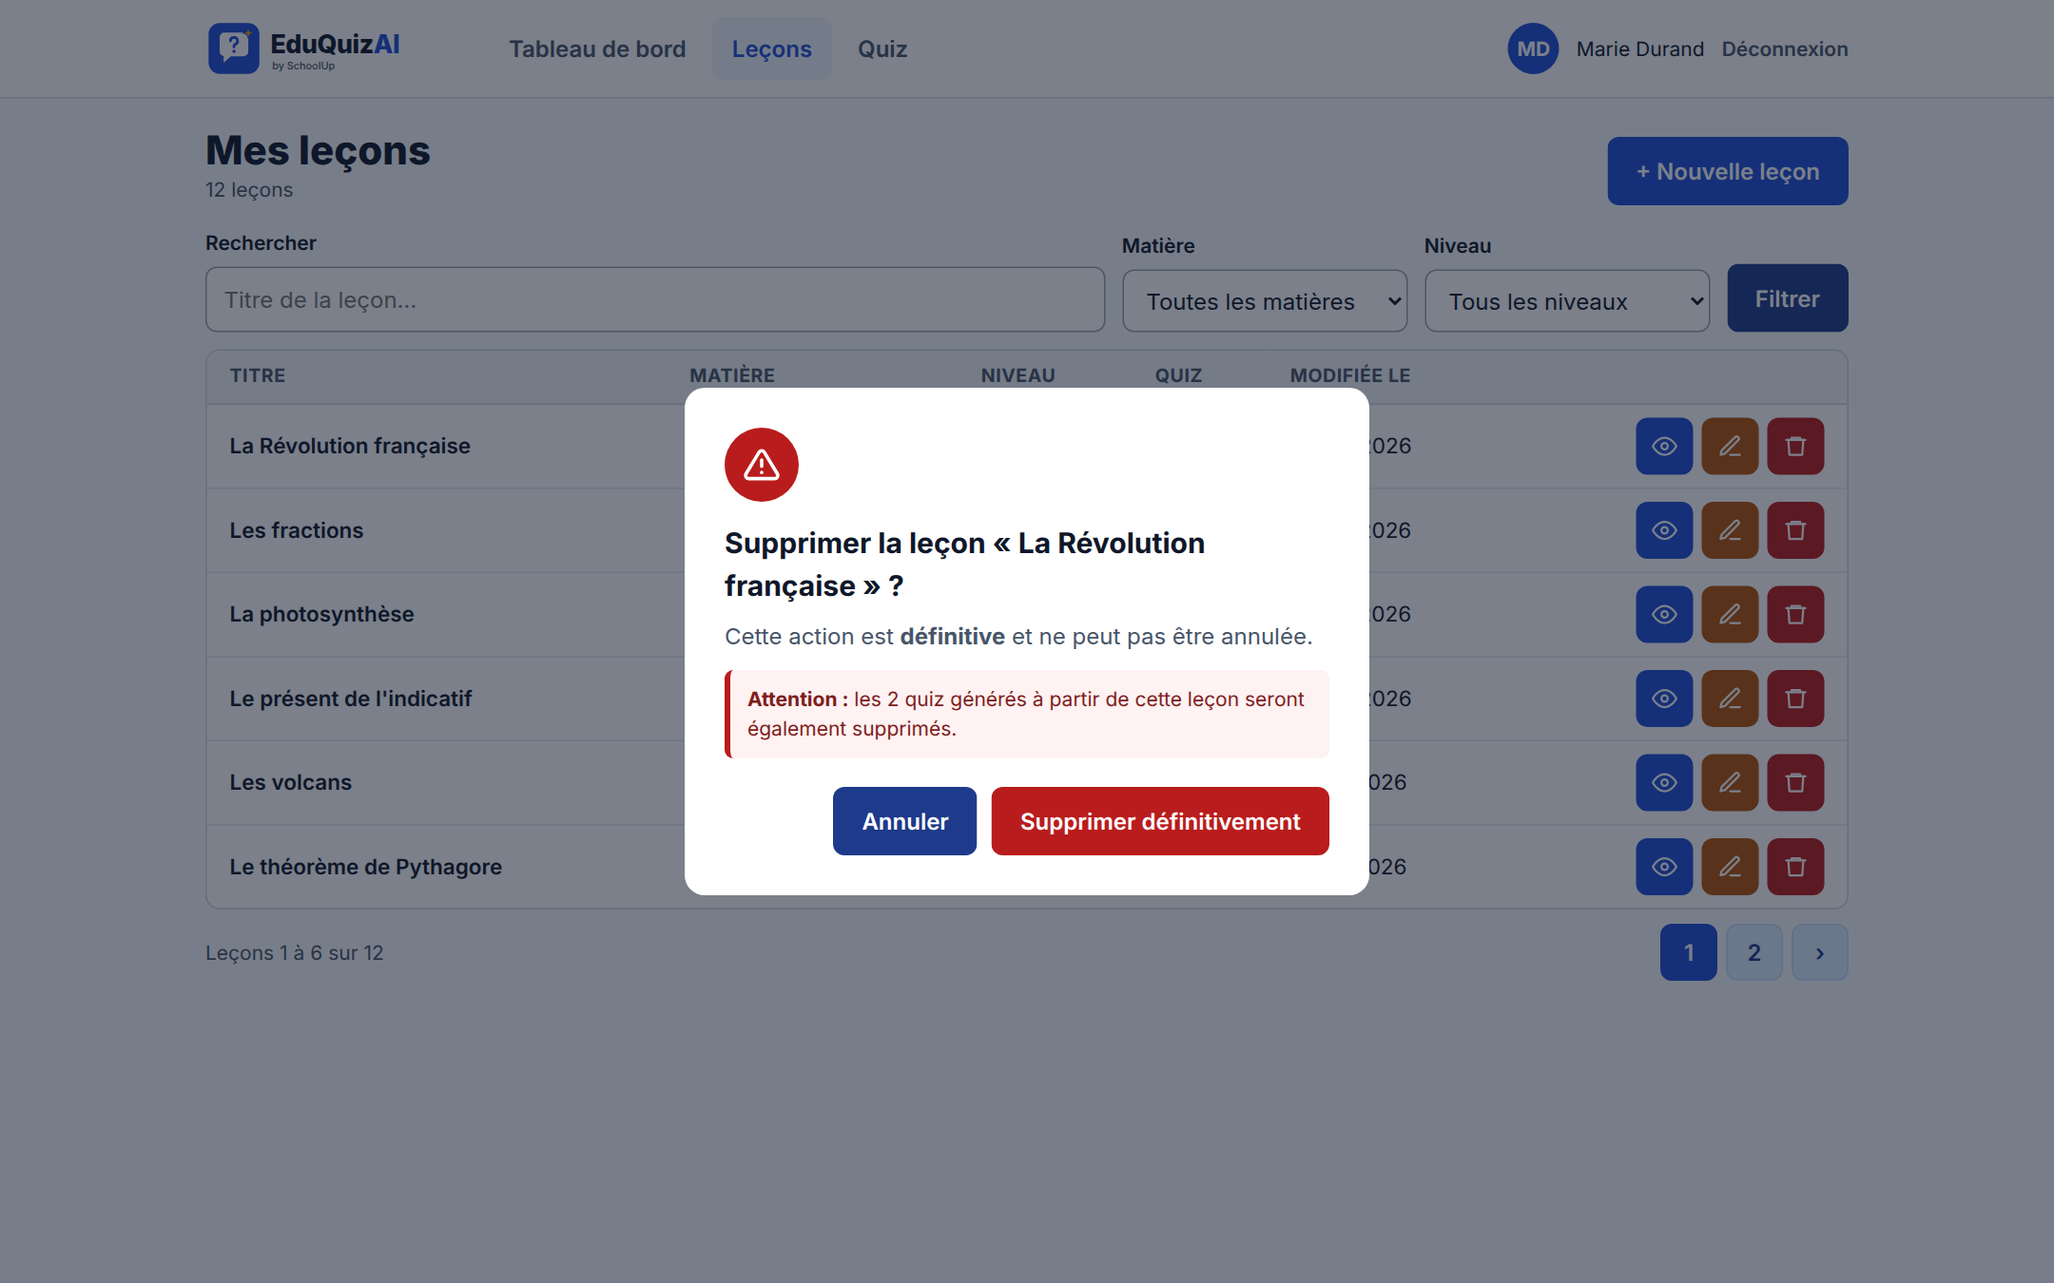
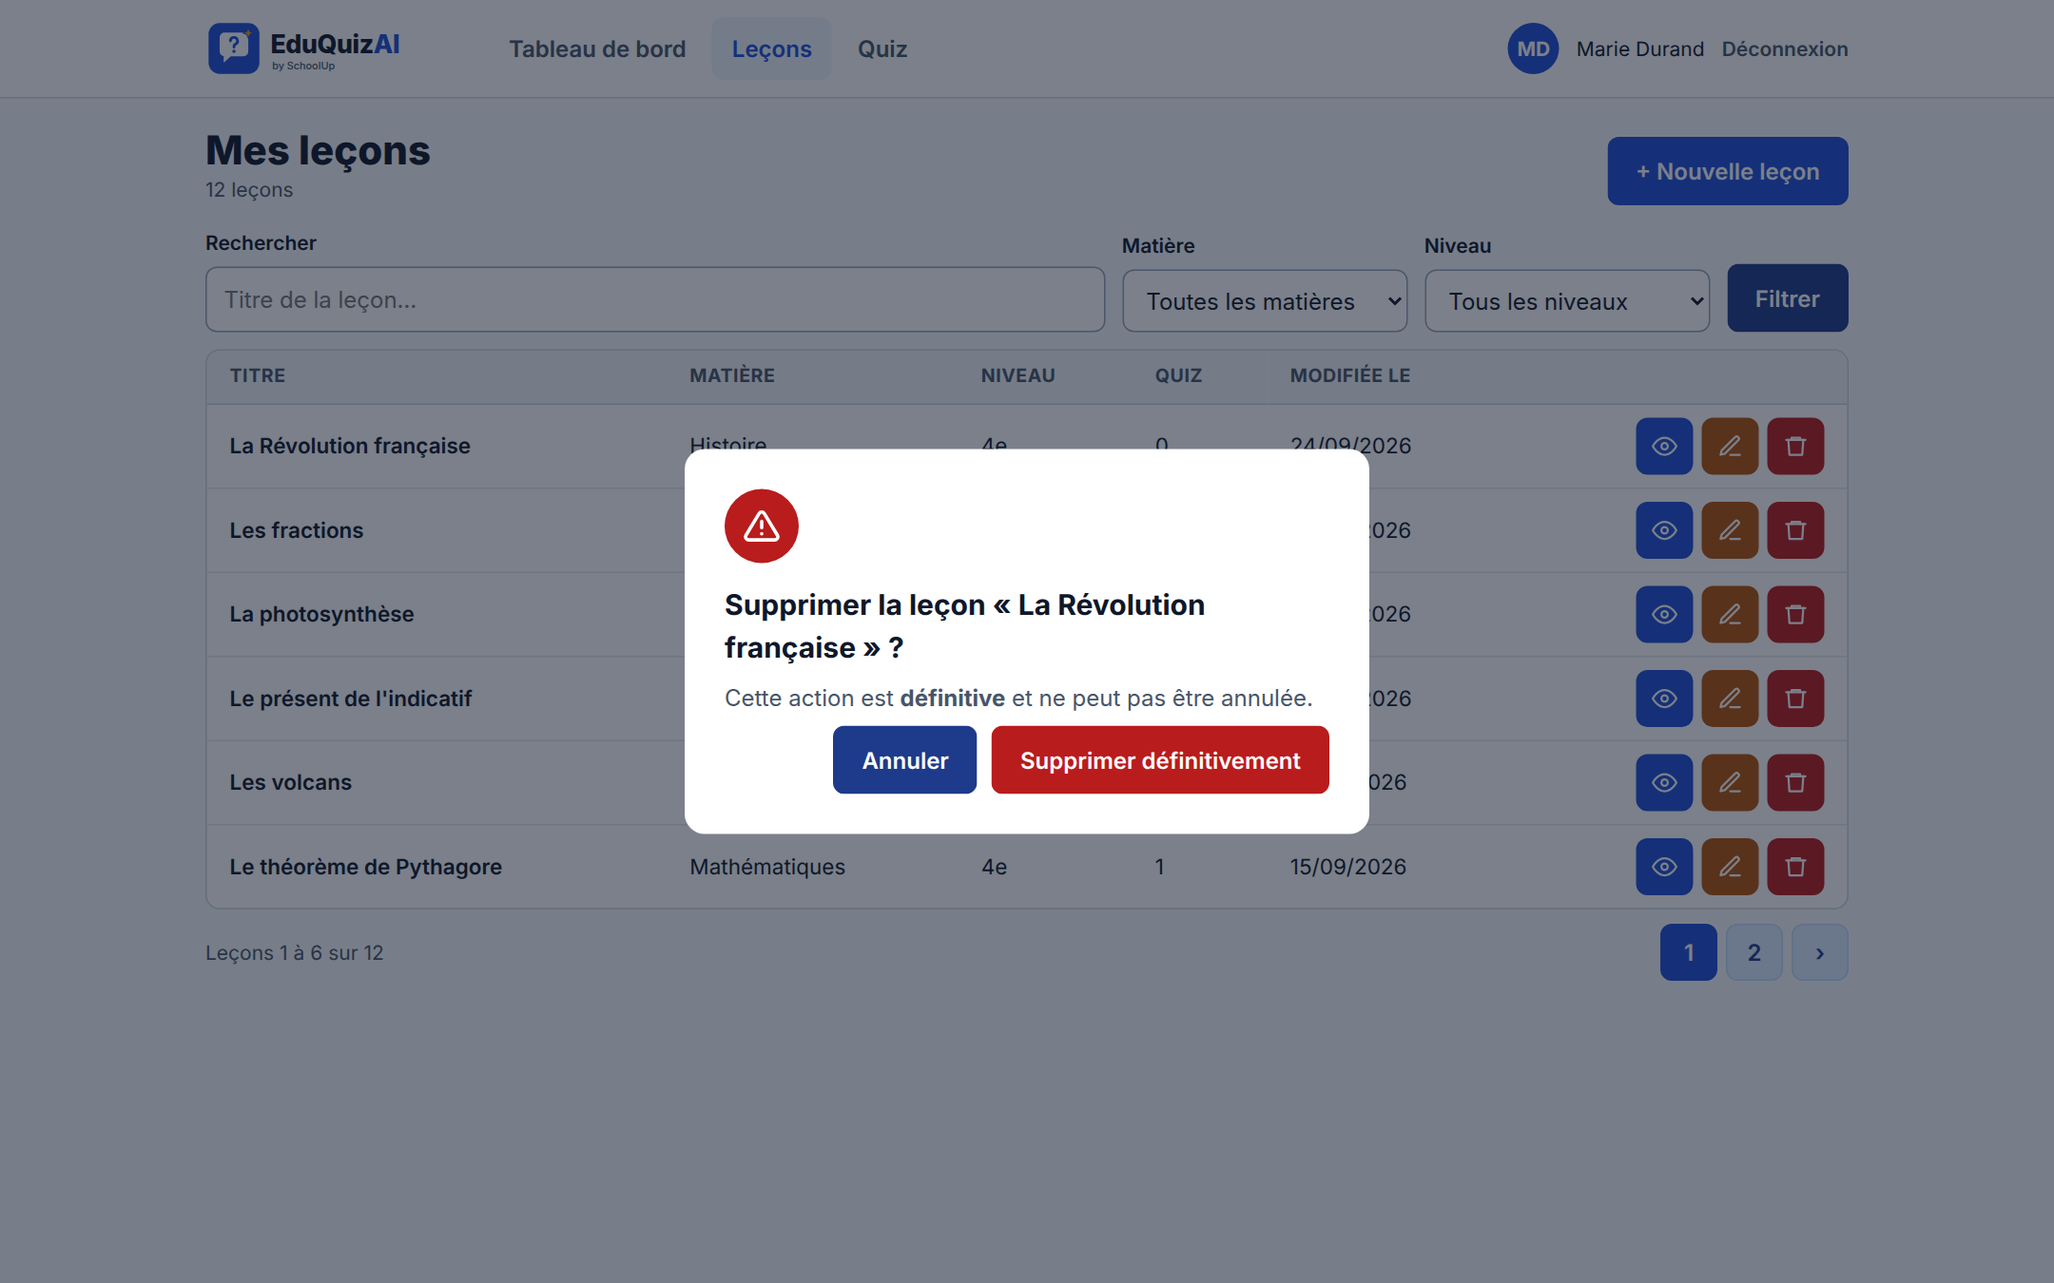
docs(conception): maquette 10b, suppression impossible d'une leçon

Changed region(s): [[0.3102, 0.28, 0.6824, 0.7156]]

diff --git a/docs/conception/maquettes/10b_suppression_impossible.html b/docs/conception/maquettes/10b_suppression_impossible.html
@@ -1,0 +1,95 @@
+<!doctype html>
+<html lang="fr">
+<head>
+  <meta charset="utf-8">
+  <meta name="viewport" content="width=device-width, initial-scale=1">
+  <title>Suppression impossible · EduQuizAI</title>
+  <link rel="icon" href="assets/logo_icone.svg">
+  <link rel="stylesheet" href="assets/style.css">
+</head>
+<body class="sans-scroll">
+  <a class="lien-evitement" href="#contenu">Aller au contenu</a>
+  <header class="entete">
+    <div class="entete-int">
+      <a href="02_dashboard.html"><img class="logo" src="assets/logo.svg" alt="EduQuizAI, retour au tableau de bord"></a>
+      <nav class="nav" aria-label="Navigation principale">
+        <a href="02_dashboard.html">Tableau de bord</a>
+        <a href="03_lecons.html" aria-current="page">Leçons</a>
+        <a href="06_quiz.html">Quiz</a>
+      </nav>
+      <div class="utilisateur">
+        <span class="avatar" aria-hidden="true">MD</span><span class="nom">Marie Durand</span>
+        <a class="lien-deco" href="01_connexion.html">Déconnexion</a>
+      </div>
+      <button class="menu-mobile" aria-label="Ouvrir le menu"><svg width="22" height="22" viewBox="0 0 24 24" fill="none" stroke="#0F172A" stroke-width="2" stroke-linecap="round"><path d="M4 6h16M4 12h16M4 18h16"/></svg></button>
+    </div>
+  </header>
+  <main id="contenu" class="contenu" aria-hidden="true">
+    <div class="titre-page">
+      <div><h1>Mes leçons</h1><p class="muted">12 leçons</p></div>
+      <a class="btn btn-primaire" href="04_lecon_form.html">+ Nouvelle leçon</a>
+    </div>
+
+    <form class="filtres" role="search" action="#">
+      <div class="champ recherche"><label for="q">Rechercher</label><input id="q" type="search" placeholder="Titre de la leçon…"></div>
+      <div class="champ"><label for="matiere">Matière</label><select id="matiere"><option>Toutes les matières</option><option>Français</option><option>Histoire</option><option>Mathématiques</option><option>SVT</option></select></div>
+      <div class="champ"><label for="niveau">Niveau</label><select id="niveau"><option>Tous les niveaux</option><option>6e</option><option>5e</option><option>4e</option><option>3e</option></select></div>
+      <button class="btn btn-secondaire" type="submit">Filtrer</button>
+    </form>
+
+    <div class="carte tableau-carte">
+      <table>
+        <caption class="sr">Liste de mes leçons</caption>
+        <thead><tr><th scope="col">Titre</th><th scope="col">Matière</th><th scope="col">Niveau</th><th scope="col">Quiz</th><th scope="col">Modifiée le</th><th scope="col"><span class="sr">Actions</span></th></tr></thead>
+        <tbody>
+          <tr>
+            <td><a class="t" href="05_lecon_detail.html">La Révolution française</a></td>
+            <td data-l="Matière">Histoire</td><td data-l="Niveau">4e</td><td data-l="Quiz">2</td><td data-l="Modifiée le">24/09/2026</td>
+            <td><div class="actions"><a class="btn-icone voir" href="05_lecon_detail.html" aria-label="Voir la leçon La Révolution française" title="Voir"><svg width="18" height="18" viewBox="0 0 24 24" fill="none" stroke="currentColor" stroke-width="2" stroke-linecap="round" stroke-linejoin="round" aria-hidden="true"><path d="M1 12s4-8 11-8 11 8 11 8-4 8-11 8-11-8-11-8z"/><circle cx="12" cy="12" r="3"/></svg></a><a class="btn-icone modifier" href="04_lecon_form.html" aria-label="Modifier la leçon La Révolution française" title="Modifier"><svg width="18" height="18" viewBox="0 0 24 24" fill="none" stroke="currentColor" stroke-width="2" stroke-linecap="round" stroke-linejoin="round" aria-hidden="true"><path d="M12 20h9"/><path d="M16.5 3.5a2.1 2.1 0 0 1 3 3L7 19l-4 1 1-4z"/></svg></a><a class="btn-icone danger" href="10_suppression.html" aria-label="Supprimer la leçon La Révolution française" title="Supprimer"><svg width="18" height="18" viewBox="0 0 24 24" fill="none" stroke="currentColor" stroke-width="2" stroke-linecap="round" stroke-linejoin="round" aria-hidden="true"><path d="M3 6h18"/><path d="M8 6V4h8v2"/><path d="M19 6l-1 14H6L5 6"/></svg></a></div></td>
+          </tr>
+          <tr>
+            <td><a class="t" href="05_lecon_detail.html">Les fractions</a></td>
+            <td data-l="Matière">Mathématiques</td><td data-l="Niveau">6e</td><td data-l="Quiz">1</td><td data-l="Modifiée le">23/09/2026</td>
+            <td><div class="actions"><a class="btn-icone voir" href="05_lecon_detail.html" aria-label="Voir la leçon Les fractions" title="Voir"><svg width="18" height="18" viewBox="0 0 24 24" fill="none" stroke="currentColor" stroke-width="2" stroke-linecap="round" stroke-linejoin="round" aria-hidden="true"><path d="M1 12s4-8 11-8 11 8 11 8-4 8-11 8-11-8-11-8z"/><circle cx="12" cy="12" r="3"/></svg></a><a class="btn-icone modifier" href="04_lecon_form.html" aria-label="Modifier la leçon Les fractions" title="Modifier"><svg width="18" height="18" viewBox="0 0 24 24" fill="none" stroke="currentColor" stroke-width="2" stroke-linecap="round" stroke-linejoin="round" aria-hidden="true"><path d="M12 20h9"/><path d="M16.5 3.5a2.1 2.1 0 0 1 3 3L7 19l-4 1 1-4z"/></svg></a><a class="btn-icone danger" href="10_suppression.html" aria-label="Supprimer la leçon Les fractions" title="Supprimer"><svg width="18" height="18" viewBox="0 0 24 24" fill="none" stroke="currentColor" stroke-width="2" stroke-linecap="round" stroke-linejoin="round" aria-hidden="true"><path d="M3 6h18"/><path d="M8 6V4h8v2"/><path d="M19 6l-1 14H6L5 6"/></svg></a></div></td>
+          </tr>
+          <tr>
+            <td><a class="t" href="05_lecon_detail.html">La photosynthèse</a></td>
+            <td data-l="Matière">SVT</td><td data-l="Niveau">5e</td><td data-l="Quiz">1</td><td data-l="Modifiée le">22/09/2026</td>
+            <td><div class="actions"><a class="btn-icone voir" href="05_lecon_detail.html" aria-label="Voir la leçon La photosynthèse" title="Voir"><svg width="18" height="18" viewBox="0 0 24 24" fill="none" stroke="currentColor" stroke-width="2" stroke-linecap="round" stroke-linejoin="round" aria-hidden="true"><path d="M1 12s4-8 11-8 11 8 11 8-4 8-11 8-11-8-11-8z"/><circle cx="12" cy="12" r="3"/></svg></a><a class="btn-icone modifier" href="04_lecon_form.html" aria-label="Modifier la leçon La photosynthèse" title="Modifier"><svg width="18" height="18" viewBox="0 0 24 24" fill="none" stroke="currentColor" stroke-width="2" stroke-linecap="round" stroke-linejoin="round" aria-hidden="true"><path d="M12 20h9"/><path d="M16.5 3.5a2.1 2.1 0 0 1 3 3L7 19l-4 1 1-4z"/></svg></a><a class="btn-icone danger" href="10_suppression.html" aria-label="Supprimer la leçon La photosynthèse" title="Supprimer"><svg width="18" height="18" viewBox="0 0 24 24" fill="none" stroke="currentColor" stroke-width="2" stroke-linecap="round" stroke-linejoin="round" aria-hidden="true"><path d="M3 6h18"/><path d="M8 6V4h8v2"/><path d="M19 6l-1 14H6L5 6"/></svg></a></div></td>
+          </tr>
+          <tr>
+            <td><a class="t" href="05_lecon_detail.html">Le présent de l'indicatif</a></td>
+            <td data-l="Matière">Français</td><td data-l="Niveau">6e</td><td data-l="Quiz">3</td><td data-l="Modifiée le">20/09/2026</td>
+            <td><div class="actions"><a class="btn-icone voir" href="05_lecon_detail.html" aria-label="Voir la leçon Le présent de l'indicatif" title="Voir"><svg width="18" height="18" viewBox="0 0 24 24" fill="none" stroke="currentColor" stroke-width="2" stroke-linecap="round" stroke-linejoin="round" aria-hidden="true"><path d="M1 12s4-8 11-8 11 8 11 8-4 8-11 8-11-8-11-8z"/><circle cx="12" cy="12" r="3"/></svg></a><a class="btn-icone modifier" href="04_lecon_form.html" aria-label="Modifier la leçon Le présent de l'indicatif" title="Modifier"><svg width="18" height="18" viewBox="0 0 24 24" fill="none" stroke="currentColor" stroke-width="2" stroke-linecap="round" stroke-linejoin="round" aria-hidden="true"><path d="M12 20h9"/><path d="M16.5 3.5a2.1 2.1 0 0 1 3 3L7 19l-4 1 1-4z"/></svg></a><a class="btn-icone danger" href="10_suppression.html" aria-label="Supprimer la leçon Le présent de l'indicatif" title="Supprimer"><svg width="18" height="18" viewBox="0 0 24 24" fill="none" stroke="currentColor" stroke-width="2" stroke-linecap="round" stroke-linejoin="round" aria-hidden="true"><path d="M3 6h18"/><path d="M8 6V4h8v2"/><path d="M19 6l-1 14H6L5 6"/></svg></a></div></td>
+          </tr>
+          <tr>
+            <td><a class="t" href="05_lecon_detail.html">Les volcans</a></td>
+            <td data-l="Matière">SVT</td><td data-l="Niveau">4e</td><td data-l="Quiz">2</td><td data-l="Modifiée le">18/09/2026</td>
+            <td><div class="actions"><a class="btn-icone voir" href="05_lecon_detail.html" aria-label="Voir la leçon Les volcans" title="Voir"><svg width="18" height="18" viewBox="0 0 24 24" fill="none" stroke="currentColor" stroke-width="2" stroke-linecap="round" stroke-linejoin="round" aria-hidden="true"><path d="M1 12s4-8 11-8 11 8 11 8-4 8-11 8-11-8-11-8z"/><circle cx="12" cy="12" r="3"/></svg></a><a class="btn-icone modifier" href="04_lecon_form.html" aria-label="Modifier la leçon Les volcans" title="Modifier"><svg width="18" height="18" viewBox="0 0 24 24" fill="none" stroke="currentColor" stroke-width="2" stroke-linecap="round" stroke-linejoin="round" aria-hidden="true"><path d="M12 20h9"/><path d="M16.5 3.5a2.1 2.1 0 0 1 3 3L7 19l-4 1 1-4z"/></svg></a><a class="btn-icone danger" href="10_suppression.html" aria-label="Supprimer la leçon Les volcans" title="Supprimer"><svg width="18" height="18" viewBox="0 0 24 24" fill="none" stroke="currentColor" stroke-width="2" stroke-linecap="round" stroke-linejoin="round" aria-hidden="true"><path d="M3 6h18"/><path d="M8 6V4h8v2"/><path d="M19 6l-1 14H6L5 6"/></svg></a></div></td>
+          </tr>
+          <tr>
+            <td><a class="t" href="05_lecon_detail.html">Le théorème de Pythagore</a></td>
+            <td data-l="Matière">Mathématiques</td><td data-l="Niveau">4e</td><td data-l="Quiz">1</td><td data-l="Modifiée le">15/09/2026</td>
+            <td><div class="actions"><a class="btn-icone voir" href="05_lecon_detail.html" aria-label="Voir la leçon Le théorème de Pythagore" title="Voir"><svg width="18" height="18" viewBox="0 0 24 24" fill="none" stroke="currentColor" stroke-width="2" stroke-linecap="round" stroke-linejoin="round" aria-hidden="true"><path d="M1 12s4-8 11-8 11 8 11 8-4 8-11 8-11-8-11-8z"/><circle cx="12" cy="12" r="3"/></svg></a><a class="btn-icone modifier" href="04_lecon_form.html" aria-label="Modifier la leçon Le théorème de Pythagore" title="Modifier"><svg width="18" height="18" viewBox="0 0 24 24" fill="none" stroke="currentColor" stroke-width="2" stroke-linecap="round" stroke-linejoin="round" aria-hidden="true"><path d="M12 20h9"/><path d="M16.5 3.5a2.1 2.1 0 0 1 3 3L7 19l-4 1 1-4z"/></svg></a><a class="btn-icone danger" href="10_suppression.html" aria-label="Supprimer la leçon Le théorème de Pythagore" title="Supprimer"><svg width="18" height="18" viewBox="0 0 24 24" fill="none" stroke="currentColor" stroke-width="2" stroke-linecap="round" stroke-linejoin="round" aria-hidden="true"><path d="M3 6h18"/><path d="M8 6V4h8v2"/><path d="M19 6l-1 14H6L5 6"/></svg></a></div></td>
+          </tr>
+        </tbody>
+      </table>
+    </div>
+
+    <div class="pagination">
+      <p class="muted">Leçons 1 à 6 sur 12</p>
+      <nav aria-label="Pagination"><span class="cur" aria-current="page">1</span><a href="#">2</a><a href="#" aria-label="Page suivante">›</a></nav>
+    </div>
+  </main>
+  <div class="voile">
+    <div class="dialogue" role="alertdialog" aria-modal="true" aria-labelledby="t-suppr" aria-describedby="d-suppr">
+      <div class="ico-danger" aria-hidden="true"><svg width="26" height="26" viewBox="0 0 24 24" fill="none" stroke="currentColor" stroke-width="2.2" stroke-linecap="round" stroke-linejoin="round"><path d="M12 9v4"/><path d="M12 17h.01"/><path d="M10.3 3.9L1.8 18a2 2 0 0 0 1.7 3h17a2 2 0 0 0 1.7-3L13.7 3.9a2 2 0 0 0-3.4 0z"/></svg></div>
+      <h2 id="t-suppr">Impossible de supprimer la leçon « La Révolution française »</h2>
+      <p id="d-suppr">Elle a servi à générer <strong>2 quiz</strong>. Supprimez d'abord ces quiz, puis la leçon.</p>
+      <div class="boutons">
+        <a class="btn btn-secondaire" href="05_lecon_detail.html">Retour à la leçon</a>
+      </div>
+    </div>
+  </div>
+</body>
+</html>

diff --git a/docs/conception/maquettes/03_lecons.html b/docs/conception/maquettes/03_lecons.html
@@ -45,7 +45,7 @@
           <tr>
             <td><a class="t" href="05_lecon_detail.html">La Révolution française</a></td>
             <td data-l="Matière">Histoire</td><td data-l="Niveau">4e</td><td data-l="Quiz">2</td><td data-l="Modifiée le">24/09/2026</td>
-            <td><div class="actions"><a class="btn-icone voir" href="05_lecon_detail.html" aria-label="Voir la leçon La Révolution française" title="Voir"><svg width="18" height="18" viewBox="0 0 24 24" fill="none" stroke="currentColor" stroke-width="2" stroke-linecap="round" stroke-linejoin="round" aria-hidden="true"><path d="M1 12s4-8 11-8 11 8 11 8-4 8-11 8-11-8-11-8z"/><circle cx="12" cy="12" r="3"/></svg></a><a class="btn-icone modifier" href="04_lecon_form.html" aria-label="Modifier la leçon La Révolution française" title="Modifier"><svg width="18" height="18" viewBox="0 0 24 24" fill="none" stroke="currentColor" stroke-width="2" stroke-linecap="round" stroke-linejoin="round" aria-hidden="true"><path d="M12 20h9"/><path d="M16.5 3.5a2.1 2.1 0 0 1 3 3L7 19l-4 1 1-4z"/></svg></a><a class="btn-icone danger" href="10_suppression.html" aria-label="Supprimer la leçon La Révolution française" title="Supprimer"><svg width="18" height="18" viewBox="0 0 24 24" fill="none" stroke="currentColor" stroke-width="2" stroke-linecap="round" stroke-linejoin="round" aria-hidden="true"><path d="M3 6h18"/><path d="M8 6V4h8v2"/><path d="M19 6l-1 14H6L5 6"/></svg></a></div></td>
+            <td><div class="actions"><a class="btn-icone voir" href="05_lecon_detail.html" aria-label="Voir la leçon La Révolution française" title="Voir"><svg width="18" height="18" viewBox="0 0 24 24" fill="none" stroke="currentColor" stroke-width="2" stroke-linecap="round" stroke-linejoin="round" aria-hidden="true"><path d="M1 12s4-8 11-8 11 8 11 8-4 8-11 8-11-8-11-8z"/><circle cx="12" cy="12" r="3"/></svg></a><a class="btn-icone modifier" href="04_lecon_form.html" aria-label="Modifier la leçon La Révolution française" title="Modifier"><svg width="18" height="18" viewBox="0 0 24 24" fill="none" stroke="currentColor" stroke-width="2" stroke-linecap="round" stroke-linejoin="round" aria-hidden="true"><path d="M12 20h9"/><path d="M16.5 3.5a2.1 2.1 0 0 1 3 3L7 19l-4 1 1-4z"/></svg></a><a class="btn-icone danger" href="10b_suppression_impossible.html" aria-label="Supprimer la leçon La Révolution française" title="Supprimer"><svg width="18" height="18" viewBox="0 0 24 24" fill="none" stroke="currentColor" stroke-width="2" stroke-linecap="round" stroke-linejoin="round" aria-hidden="true"><path d="M3 6h18"/><path d="M8 6V4h8v2"/><path d="M19 6l-1 14H6L5 6"/></svg></a></div></td>
           </tr>
           <tr>
             <td><a class="t" href="05_lecon_detail.html">Les fractions</a></td>

diff --git a/docs/conception/maquettes/10_suppression.html b/docs/conception/maquettes/10_suppression.html
@@ -44,7 +44,7 @@
         <tbody>
           <tr>
             <td><a class="t" href="05_lecon_detail.html">La Révolution française</a></td>
-            <td data-l="Matière">Histoire</td><td data-l="Niveau">4e</td><td data-l="Quiz">2</td><td data-l="Modifiée le">24/09/2026</td>
+            <td data-l="Matière">Histoire</td><td data-l="Niveau">4e</td><td data-l="Quiz">0</td><td data-l="Modifiée le">24/09/2026</td>
             <td><div class="actions"><a class="btn-icone voir" href="05_lecon_detail.html" aria-label="Voir la leçon La Révolution française" title="Voir"><svg width="18" height="18" viewBox="0 0 24 24" fill="none" stroke="currentColor" stroke-width="2" stroke-linecap="round" stroke-linejoin="round" aria-hidden="true"><path d="M1 12s4-8 11-8 11 8 11 8-4 8-11 8-11-8-11-8z"/><circle cx="12" cy="12" r="3"/></svg></a><a class="btn-icone modifier" href="04_lecon_form.html" aria-label="Modifier la leçon La Révolution française" title="Modifier"><svg width="18" height="18" viewBox="0 0 24 24" fill="none" stroke="currentColor" stroke-width="2" stroke-linecap="round" stroke-linejoin="round" aria-hidden="true"><path d="M12 20h9"/><path d="M16.5 3.5a2.1 2.1 0 0 1 3 3L7 19l-4 1 1-4z"/></svg></a><a class="btn-icone danger" href="10_suppression.html" aria-label="Supprimer la leçon La Révolution française" title="Supprimer"><svg width="18" height="18" viewBox="0 0 24 24" fill="none" stroke="currentColor" stroke-width="2" stroke-linecap="round" stroke-linejoin="round" aria-hidden="true"><path d="M3 6h18"/><path d="M8 6V4h8v2"/><path d="M19 6l-1 14H6L5 6"/></svg></a></div></td>
           </tr>
           <tr>
@@ -86,7 +86,6 @@
       <div class="ico-danger" aria-hidden="true"><svg width="26" height="26" viewBox="0 0 24 24" fill="none" stroke="currentColor" stroke-width="2.2" stroke-linecap="round" stroke-linejoin="round"><path d="M12 9v4"/><path d="M12 17h.01"/><path d="M10.3 3.9L1.8 18a2 2 0 0 0 1.7 3h17a2 2 0 0 0 1.7-3L13.7 3.9a2 2 0 0 0-3.4 0z"/></svg></div>
       <h2 id="t-suppr">Supprimer la leçon « La Révolution française » ?</h2>
       <p id="d-suppr">Cette action est <strong>définitive</strong> et ne peut pas être annulée.</p>
-      <p class="consequence"><strong>Attention :</strong> les 2 quiz générés à partir de cette leçon seront également supprimés.</p>
       <form class="boutons" method="post" action="#">
         <a class="btn btn-secondaire" href="03_lecons.html">Annuler</a>
         <button class="btn btn-danger" type="submit">Supprimer définitivement</button>

diff --git a/docs/conception/maquettes/05_lecon_detail.html b/docs/conception/maquettes/05_lecon_detail.html
@@ -33,7 +33,7 @@
       </div>
       <div class="boutons">
         <a class="btn btn-modifier" href="04_lecon_form.html">Modifier</a>
-        <a class="btn btn-danger" href="10_suppression.html">Supprimer</a>
+        <a class="btn btn-danger" href="10b_suppression_impossible.html">Supprimer</a>
       </div>
     </div>
 
